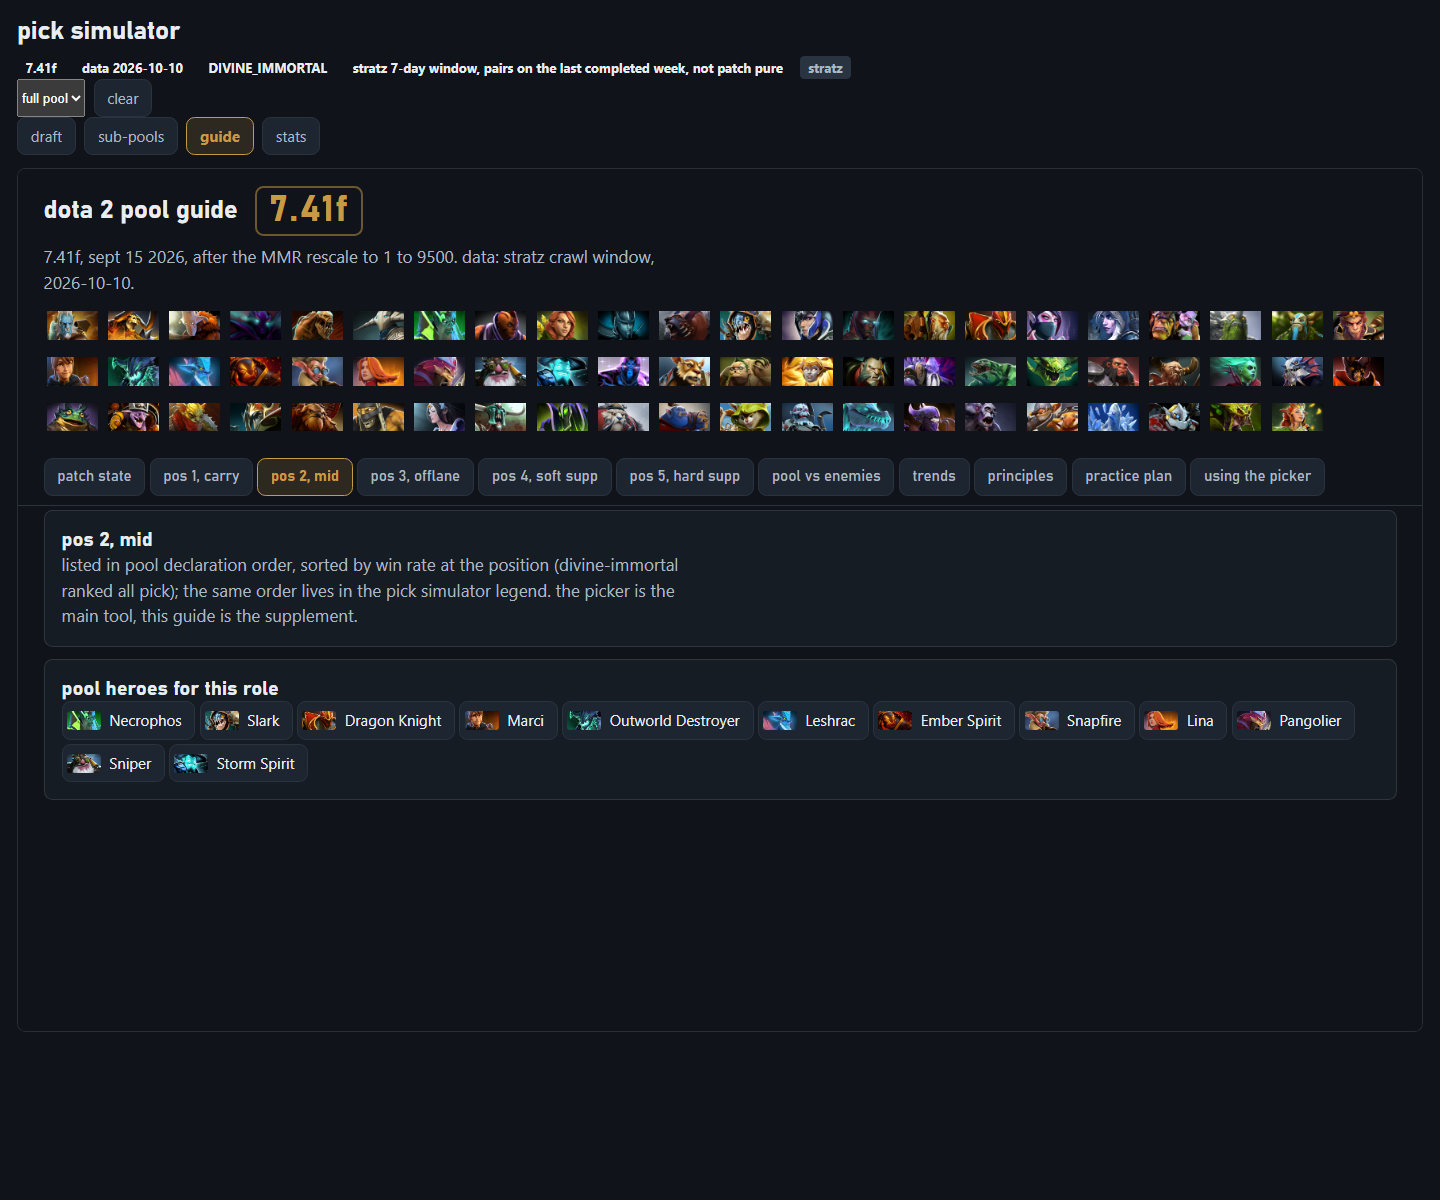
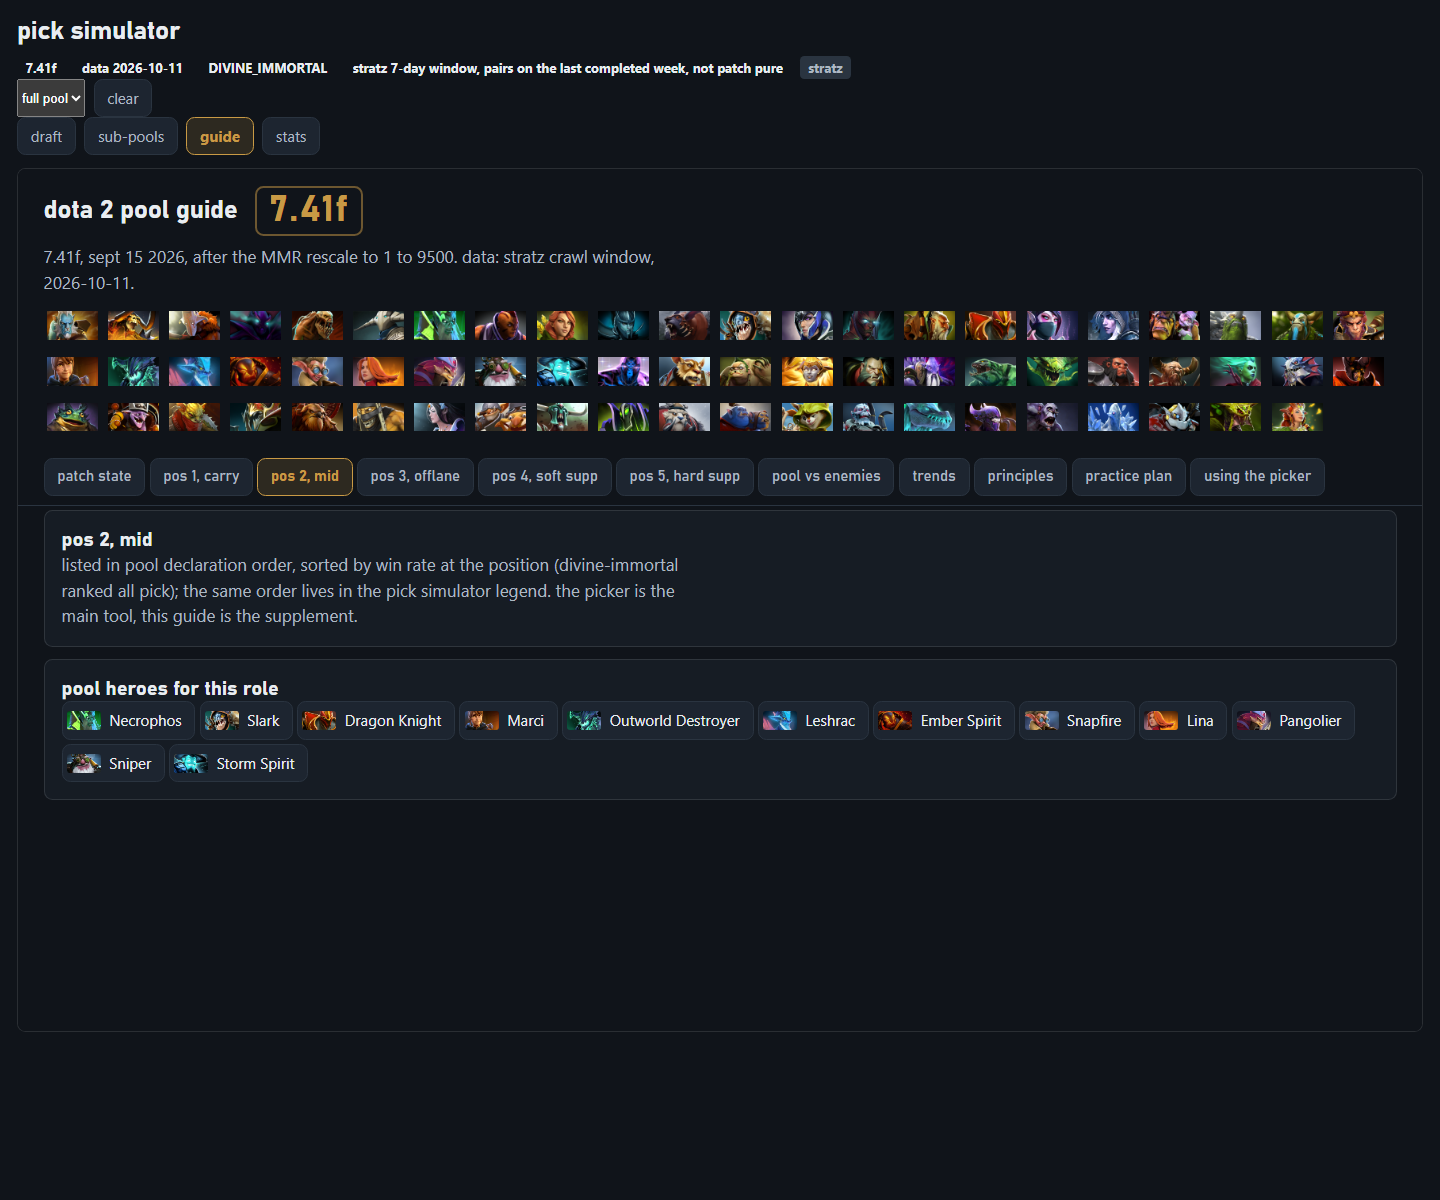
docs(readme): retake the shots for the techies seat and 22 pair main
the pool lists seat techies sixth at pos 4 flex, the flex paragraph
names the soft support flex beside the hard support seat, the main
subset description grows to 22 pairs with techies at both support
seats, and all four shots retake against the widened pool.

Changed region(s): [[0.3125, 0.3083, 0.75, 0.37]]

diff --git a/readme.md b/readme.md
@@ -19,7 +19,7 @@ place allies, enemies, and bans through the roster search or the pool panels, ai
 
 the sub-pools tab carves sub-pools out of the master pool through the loopback `/api/subsets`, and the subset bar in the header picks the active one, so the board panels and ranking filter live to the kept pairs (`make subsets` opens the tab). `main` is the first sub-pool, `make seed-main` reseeds it idempotently into the committed store.
 
-![the sub-pools tab with main selected on the header subset bar and its 20 pairs toggled on among the per-role pool chips](docs/subpools.png)
+![the sub-pools tab with main selected on the header subset bar and its 22 pairs toggled on among the per-role pool chips](docs/subpools.png)
 
 ### guide
 
@@ -40,12 +40,12 @@ the lineup below is the curated pool, membership is authored in `config.json`, a
 - pos 1, carry: Phantom Lancer, Clinkz, Juggernaut, Spectre, Lifestealer, Sven, Necrophos (flex), Anti-Mage, Windranger, Phantom Assassin, Ursa, Slark (flex), Luna, Terrorblade, Lone Druid, Dragon Knight (flex), Templar Assassin, Drow Ranger, Alchemist, Tiny, Nature's Prophet, Monkey King
 - pos 2, mid: Marci, Dragon Knight, Outworld Destroyer, Slark, Leshrac, Ember Spirit, Snapfire, Lina, Pangolier, Sniper, Necrophos (flex), Storm Spirit
 - pos 3, offlane: Enigma, Slark (flex), Brewmaster, Pudge, Dawnbreaker, Lycan, Dark Seer, Dragon Knight (flex), Tidehunter, Viper, Axe, Centaur Warrunner, Necrophos, Death Prophet, Slardar, Doom, Largo, Timbersaw, Pangolier (flex)
-- pos 4, soft support: Bounty Hunter, Nyx Assassin, Earthshaker, Shadow Shaman, Mirana, Undying, Rubick, Windranger (flex), Tusk, Ogre Magi, Hoodwink
+- pos 4, soft support: Bounty Hunter, Nyx Assassin, Earthshaker, Shadow Shaman, Mirana, Techies (flex), Undying, Rubick, Windranger (flex), Tusk, Ogre Magi, Hoodwink
 - pos 5, hard support: Lich, Winter Wyvern, Bane, Mirana (flex), Witch Doctor, Techies, Ancient Apparition, Clockwerk, Ogre Magi, Venomancer, Hoodwink (flex), Windranger (flex), Enchantress
 
-heroes marked flex hold a secondary seat beside the dedicated seat in another role's list. axe joined as a new hero, dedicated at the offlane seat, dragon knight flexes carry and offlane beside the mid seat, and pangolier flexes offlane beside the mid seat.
+heroes marked flex hold a secondary seat beside the dedicated seat in another role's list. axe joined as a new hero, dedicated at the offlane seat, dragon knight flexes carry and offlane beside the mid seat, pangolier flexes offlane beside the mid seat, and techies flexes the soft support seat beside the hard support seat.
 
-sub-pools carve the pool down for focused practice. `main` is the first one, 20 pairs: pos 1 nature's prophet, slark, lone druid, lifestealer, dragon knight, anti-mage. pos 2 dragon knight, slark, pangolier, necrophos. pos 3 necrophos, dragon knight, axe, pangolier. pos 4 and pos 5 mirana, hoodwink, windranger. `make seed-main` reseeds it idempotently into the committed `var/subsets.db`, byte-identical when the store already matches.
+sub-pools carve the pool down for focused practice. `main` is the first one, 22 pairs: pos 1 nature's prophet, slark, lone druid, lifestealer, dragon knight, anti-mage. pos 2 dragon knight, slark, pangolier, necrophos. pos 3 necrophos, dragon knight, axe, pangolier. pos 4 and pos 5 mirana, hoodwink, techies, windranger. `make seed-main` reseeds it idempotently into the committed `var/subsets.db`, byte-identical when the store already matches.
 
 ## tools
 
